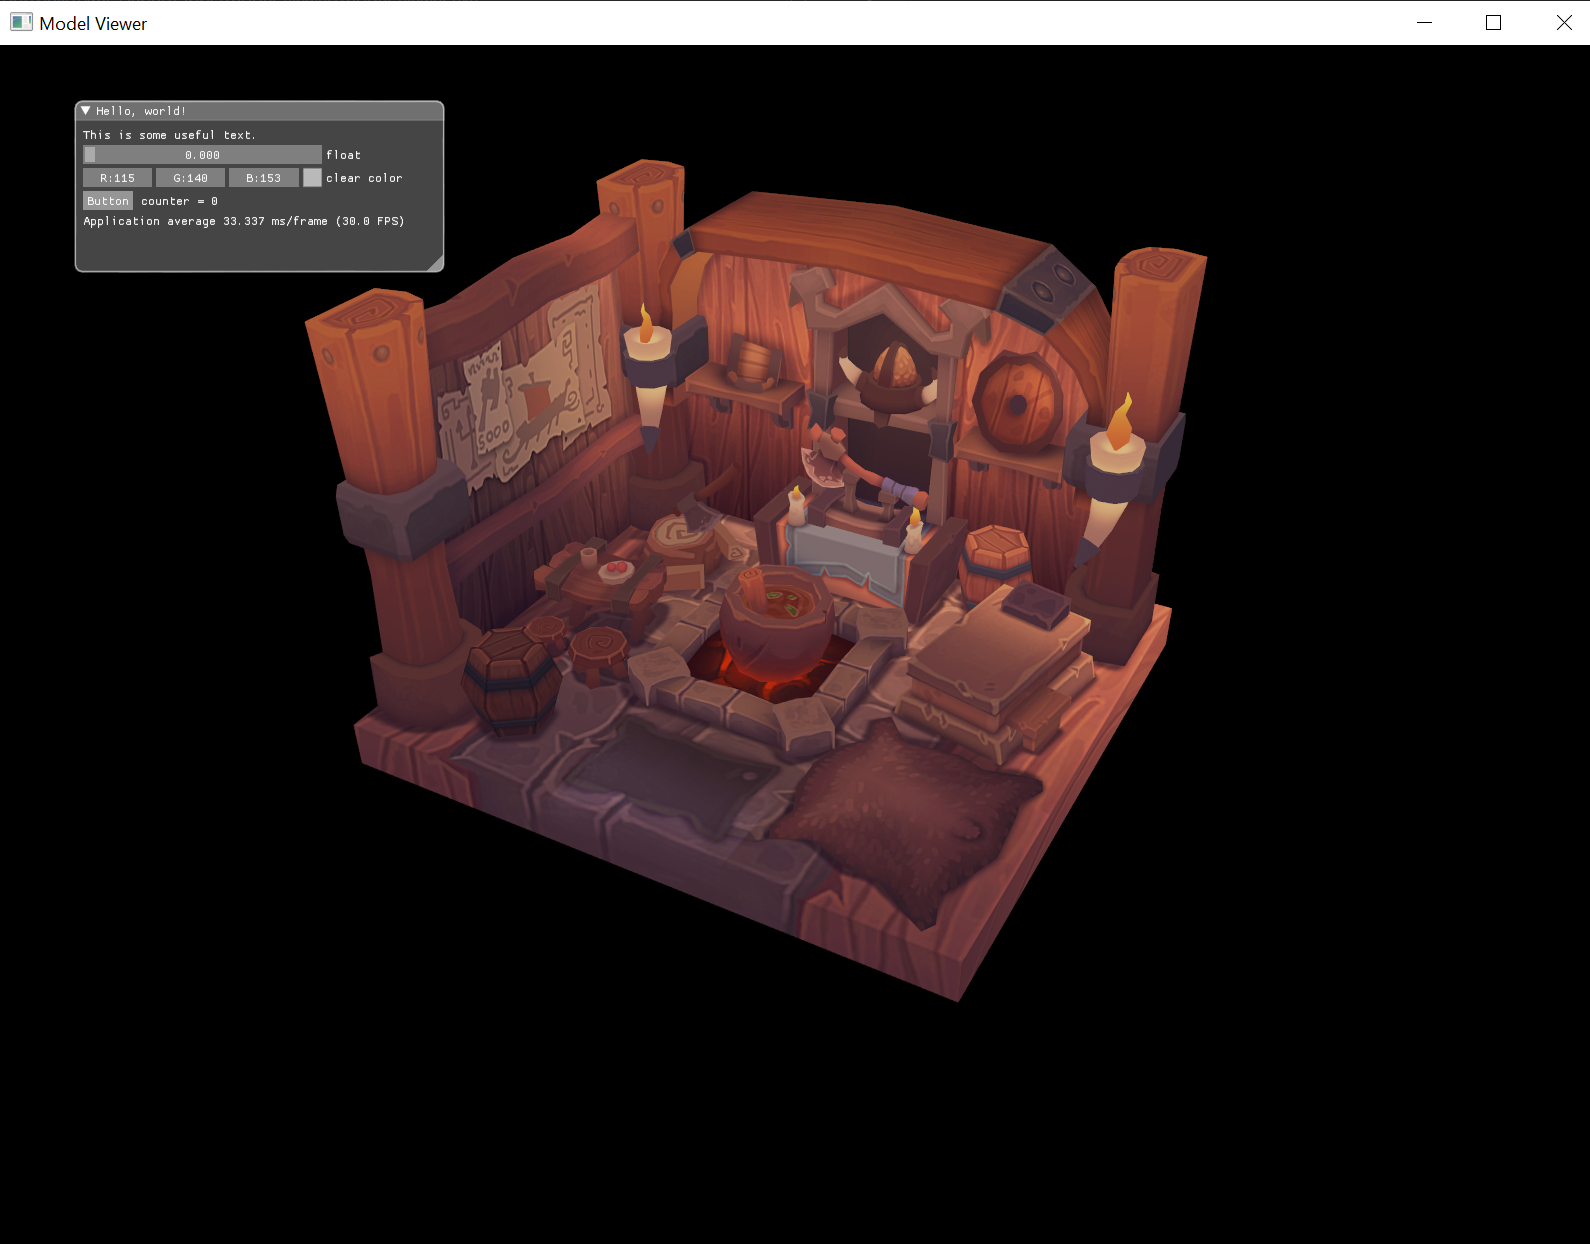
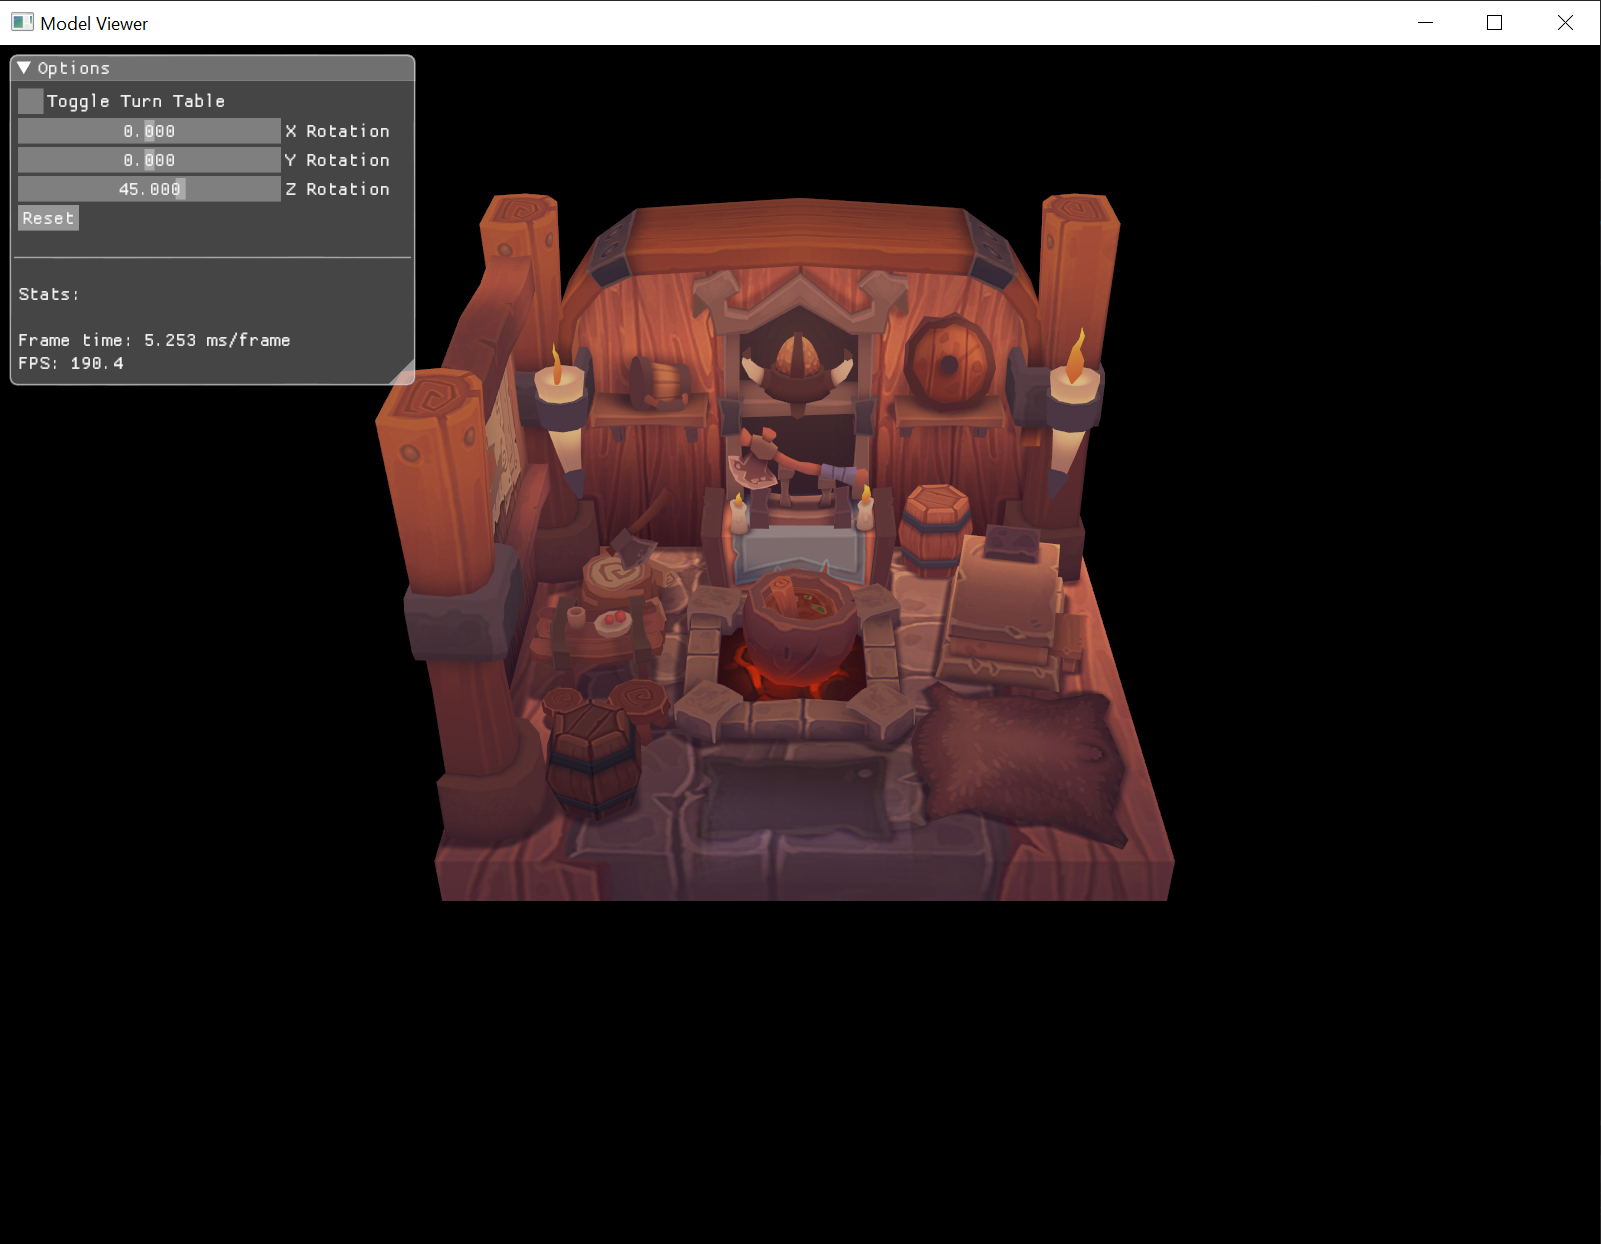
- tweaked model viewer UI - added high dpi scaling - some more docker tweaks, plus package the docker image with release build

Changed region(s): [[0.0, 0.0, 0.7704, 0.8248]]

diff --git a/apps/model_viewer/model_viewer.cpp b/apps/model_viewer/model_viewer.cpp
@@ -40,6 +40,13 @@ private:
 	std::unique_ptr<SceneManager> scene_manager_;
 	RenderPass render_pass_;
 	GraphicsPipeline graphics_pipeline_;
+
+	// options
+	bool turntable_on_ = false;
+	std::chrono::time_point<std::chrono::steady_clock> animation_start_time_;
+	float rot_angle_x_ = 0.0f;
+	float rot_angle_y_ = 0.0f;
+	float rot_angle_z_ = 45.0f;
 };
 
 // Implementation
@@ -134,18 +141,24 @@ void ModelViewer::cleanup() {
 }
 
 void ModelViewer::updateScene() {
-	static auto start_time = std::chrono::high_resolution_clock::now();
-
-	auto current_time = std::chrono::high_resolution_clock::now();
-	float time = std::chrono::duration<float, std::chrono::seconds::period>(current_time - start_time).count();
-
 	scene_manager_->update();
 
 	auto& mesh = meshes_["viking_room"];
 
-	mesh->setTransform(
-		glm::rotate(glm::mat4(1.0f), time * glm::radians(90.0f), glm::vec3(0.0f, 0.0f, 1.0f))
-	);
+	auto final_angle_z = rot_angle_z_;
+
+	if (turntable_on_) {
+		auto current_time = std::chrono::high_resolution_clock::now();
+		float time = std::chrono::duration<float, std::chrono::seconds::period>(current_time - animation_start_time_).count();
+		final_angle_z *= glm::radians(90.0f * time);
+	}
+
+	auto rotation_matrix = 
+		glm::rotate(glm::mat4(1.0f), glm::radians(final_angle_z), glm::vec3(0.0f, 0.0f, 1.0f)) *
+		glm::rotate(glm::mat4(1.0f), glm::radians(rot_angle_y_), glm::vec3(0.0f, 1.0f, 0.0f)) *
+		glm::rotate(glm::mat4(1.0f), glm::radians(rot_angle_x_), glm::vec3(1.0f, 0.0f, 0.0f));
+	
+	mesh->setTransform(rotation_matrix);
 
 	mesh->update();
 
@@ -248,23 +261,43 @@ RecordCommandsResult ModelViewer::recordCommands(uint32_t swapchain_image) {
 void ModelViewer::drawUi() {
 	imgui_renderer_->beginFrame();
 
-	static ImVec4 clear_color = ImVec4(0.45f, 0.55f, 0.60f, 1.00f);
-	static float f = 0.0f;
-	static int counter = 0;
+	static char turn_table_label[] = "Toggle Turn Table";
+	static char reset_button_label[] = "Reset";
 
-	ImGui::Begin("Hello, world!");                          // Create a window called "Hello, world!" and append into it.
+	ImGui::SetNextWindowPos(ImVec2(10, 10));
 
-	ImGui::Text("This is some useful text.");               // Display some text (you can use a format strings too)
+	const auto high_dpi_scale = imgui_renderer_->getHighDpiScale();
+	ImGui::SetNextWindowSize(ImVec2(270 * high_dpi_scale, 220 * high_dpi_scale));
 
-	ImGui::SliderFloat("float", &f, 0.0f, 1.0f);            // Edit 1 float using a slider from 0.0f to 1.0f
-	ImGui::ColorEdit3("clear color", (float*)&clear_color); // Edit 3 floats representing a color
+	ImGui::Begin("Options");                   
 
-	if (ImGui::Button("Button"))                            // Buttons return true when clicked (most widgets return true when edited/activated)
-		counter++;
-	ImGui::SameLine();
-	ImGui::Text("counter = %d", counter);
+	if (ImGui::Checkbox(turn_table_label, &turntable_on_)) {
+		if (turntable_on_) {
+			animation_start_time_ = std::chrono::steady_clock::now();
+		}
+	}
 
-	ImGui::Text("Application average %.3f ms/frame (%.1f FPS)", 1000.0f / ImGui::GetIO().Framerate, ImGui::GetIO().Framerate);
+	ImGui::SliderFloat("X Rotation", &rot_angle_x_, -90.0f, 90.0f); 
+	ImGui::SliderFloat("Y Rotation", &rot_angle_y_, -90.0f, 90.0f);
+	ImGui::SliderFloat("Z Rotation", &rot_angle_z_, -180.0f, 180.0f);
+	
+	if (ImGui::Button(reset_button_label)) {
+		rot_angle_x_ = 0.0f;
+		rot_angle_y_ = 0.0f;
+		rot_angle_z_ = 45.0f;
+		turntable_on_ = false;
+	}
+
+	ImGui::NewLine();
+	ImGui::Separator();
+	ImGui::NewLine();
+
+	ImGui::Text("Stats:");
+	ImGui::NewLine();
+
+	ImGui::Text("Frame time: %.3f ms/frame", 1000.0f / ImGui::GetIO().Framerate);
+	ImGui::Text("FPS: %.1f", ImGui::GetIO().Framerate);
+
 	ImGui::End();
 
 	imgui_renderer_->endFrame();

diff --git a/vulkan/imgui_renderer.cpp b/vulkan/imgui_renderer.cpp
@@ -17,6 +17,8 @@
 #include <GLFW/glfw3native.h>   // for glfwGetWin32Window
 #endif
 
+#include <algorithm>
+
 
 // Internal functions
 
@@ -251,7 +253,7 @@ void ImGuiRenderer::endFrame() {
         return;
     }
 
-    createOrResizeBuffers();
+    createBuffers();
     updateBuffers();
 }
 
@@ -422,6 +424,12 @@ void ImGuiRenderer::InitImGui(GLFWWindowHandle window) {
     io.ImeWindowHandle = (void*)glfwGetWin32Window(glfw_interface.glfw_window);
 #endif
 
+    // scale up for high-dpi screens
+    float x_scale, y_scale;
+    glfwGetWindowContentScale(glfw_interface.glfw_window, &x_scale, &y_scale);
+    high_dpi_scale_ = x_scale > y_scale ? x_scale : y_scale;
+    io.FontGlobalScale *= high_dpi_scale_;
+
     // Create mouse cursors
     // (By design, on X11 cursors are user configurable and some cursors may be missing. When a cursor doesn't exist,
     // GLFW will emit an error which will often be printed by the app, so we temporarily disable error reporting.
@@ -525,30 +533,22 @@ void ImGuiRenderer::updateDescriptorSets(const DescriptorSetMetadata& metadata) 
     fonts_texture_->updateDescriptorSets(vk_descriptor_sets_, bindings.find(UI_TEXTURE_SAMPLER_BINDING_NAME)->second);
 }
 
-void ImGuiRenderer::createOrResizeBuffers() {
+void ImGuiRenderer::createBuffers() {
     ImDrawData* draw_data = ImGui::GetDrawData();
     if (draw_data->TotalVtxCount <= 0) {
         std::cerr << "[IMGUI Renderer] Call to ImGuiRenderer::createBuffers with empty Draw Data!" << std::endl;
         return;
     }
 
-    if (vertex_count_ < draw_data->TotalVtxCount) {
-        if (vertex_buffer_.vk_buffer != VK_NULL_HANDLE) {
-            vulkan_backend_->destroyBuffer(vertex_buffer_);
-        }
-
-        vertex_count_ = draw_data->TotalVtxCount;
-        auto empty_vertex_buffer = std::vector<ImDrawVert>(vertex_count_, ImDrawVert());
+    if (vertex_buffer_.vk_buffer == VK_NULL_HANDLE) {
+        max_vertex_count_ = draw_data->TotalVtxCount * 5; // leave enough room for 
+        auto empty_vertex_buffer = std::vector<ImDrawVert>(max_vertex_count_, ImDrawVert());
         vertex_buffer_ = vulkan_backend_->createVertexBuffer<ImDrawVert>("imgui_vertex_buffer", empty_vertex_buffer, false);
     }
 
-    if (index_count_ < draw_data->TotalIdxCount) {
-        if (index_buffer_.vk_buffer != VK_NULL_HANDLE) {
-            vulkan_backend_->destroyBuffer(index_buffer_);
-        }
-
-        index_count_ = draw_data->TotalIdxCount;
-        auto empty_index_buffer = std::vector<ImDrawIdx>(index_count_, ImDrawIdx());
+    if (index_buffer_.vk_buffer == VK_NULL_HANDLE) {
+        max_index_count_ = draw_data->TotalIdxCount * 5;
+        auto empty_index_buffer = std::vector<ImDrawIdx>(max_index_count_, ImDrawIdx());
         index_buffer_ = vulkan_backend_->createIndexBuffer<ImDrawIdx>("imgui_index_buffer", empty_index_buffer, false);
     }
 }

diff --git a/vulkan/imgui_renderer.hpp b/vulkan/imgui_renderer.hpp
@@ -25,6 +25,8 @@ public:
 	bool setUp(GLFWWindowHandle window);
 	void shutDown();
 
+	float getHighDpiScale() const { return high_dpi_scale_; }
+
 	bool createGraphicsPipeline(RenderPass& render_pass, uint32_t subpass_number);
 	void cleanupGraphicsPipeline();
 
@@ -39,14 +41,16 @@ private:
 
 	void createDescriptorSets(const std::map<uint32_t, VkDescriptorSetLayout>& descriptor_set_layouts);
 	void updateDescriptorSets(const DescriptorSetMetadata& metadata);
-	void createOrResizeBuffers();
+	void createBuffers();
 	void updateBuffers();
+
+	float high_dpi_scale_ = 1.0f;
 
 	VulkanBackend* vulkan_backend_ = nullptr;
 	Buffer vertex_buffer_;
 	Buffer index_buffer_;
-	uint32_t vertex_count_ = 0;
-	uint32_t index_count_ = 0;
+	uint32_t max_vertex_count_ = 0;
+	uint32_t max_index_count_ = 0;
 	
 	std::shared_ptr<ShaderModule> imgui_vertex_shader_;
 	std::shared_ptr<ShaderModule> imgui_fragment_shader_;
